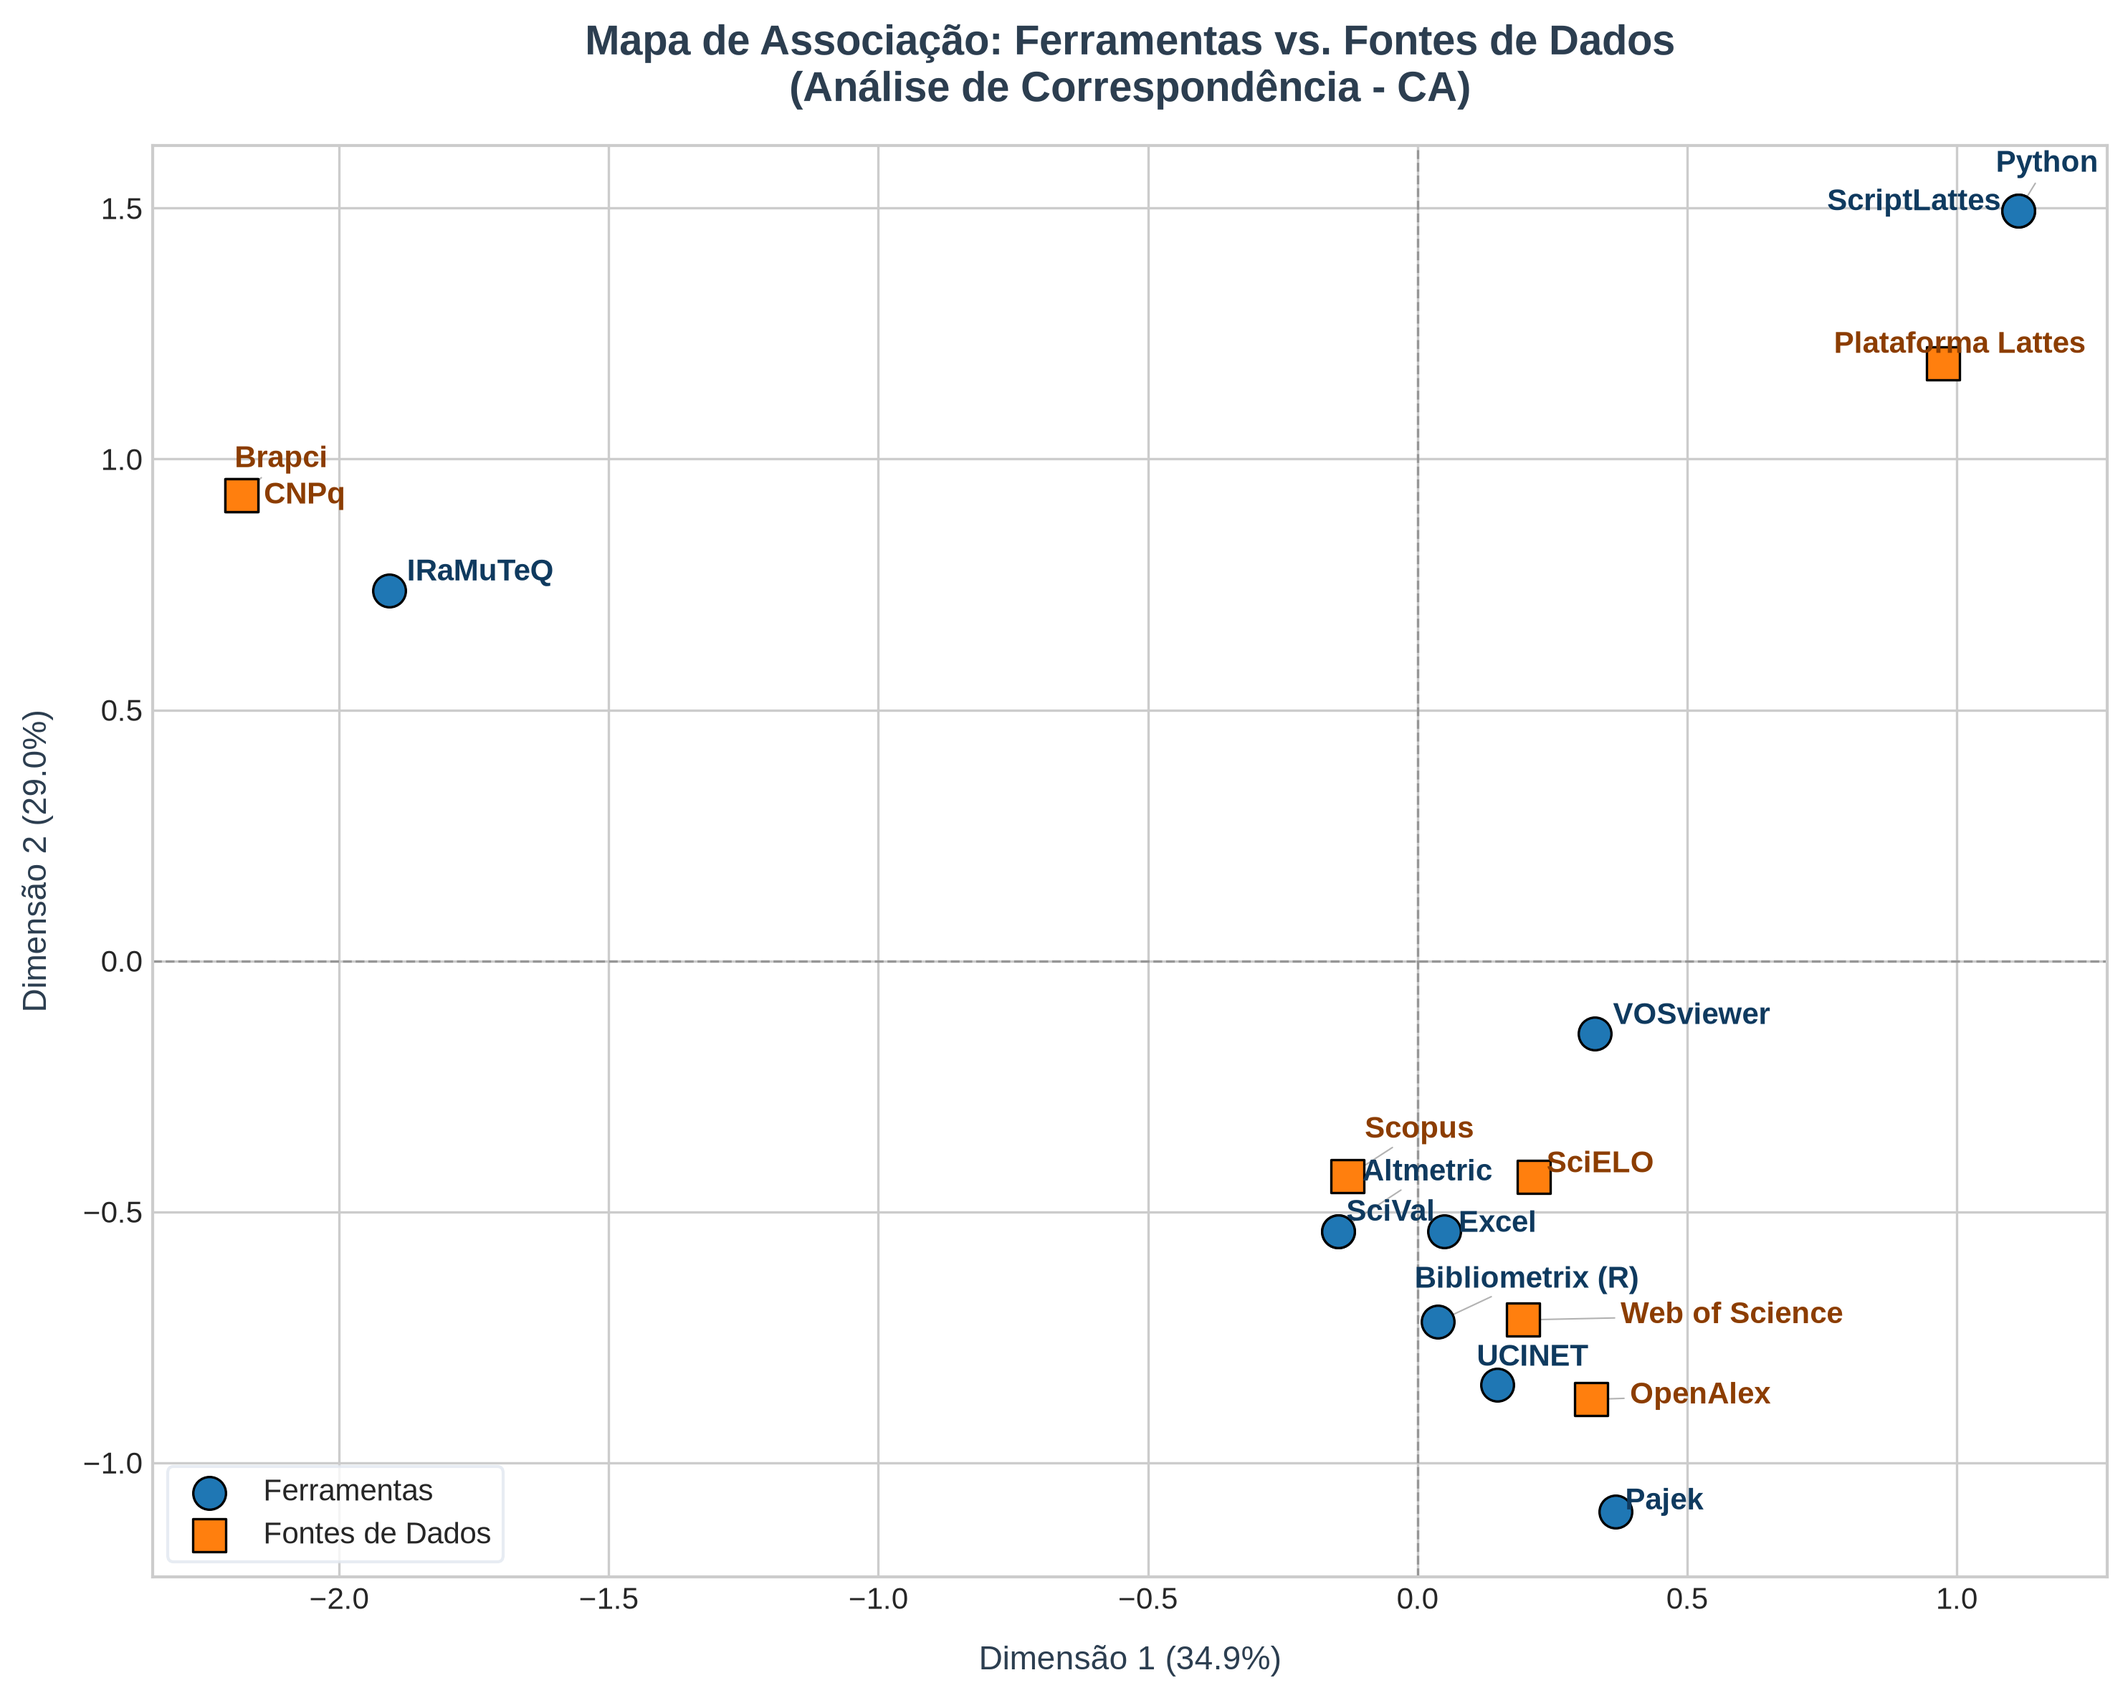
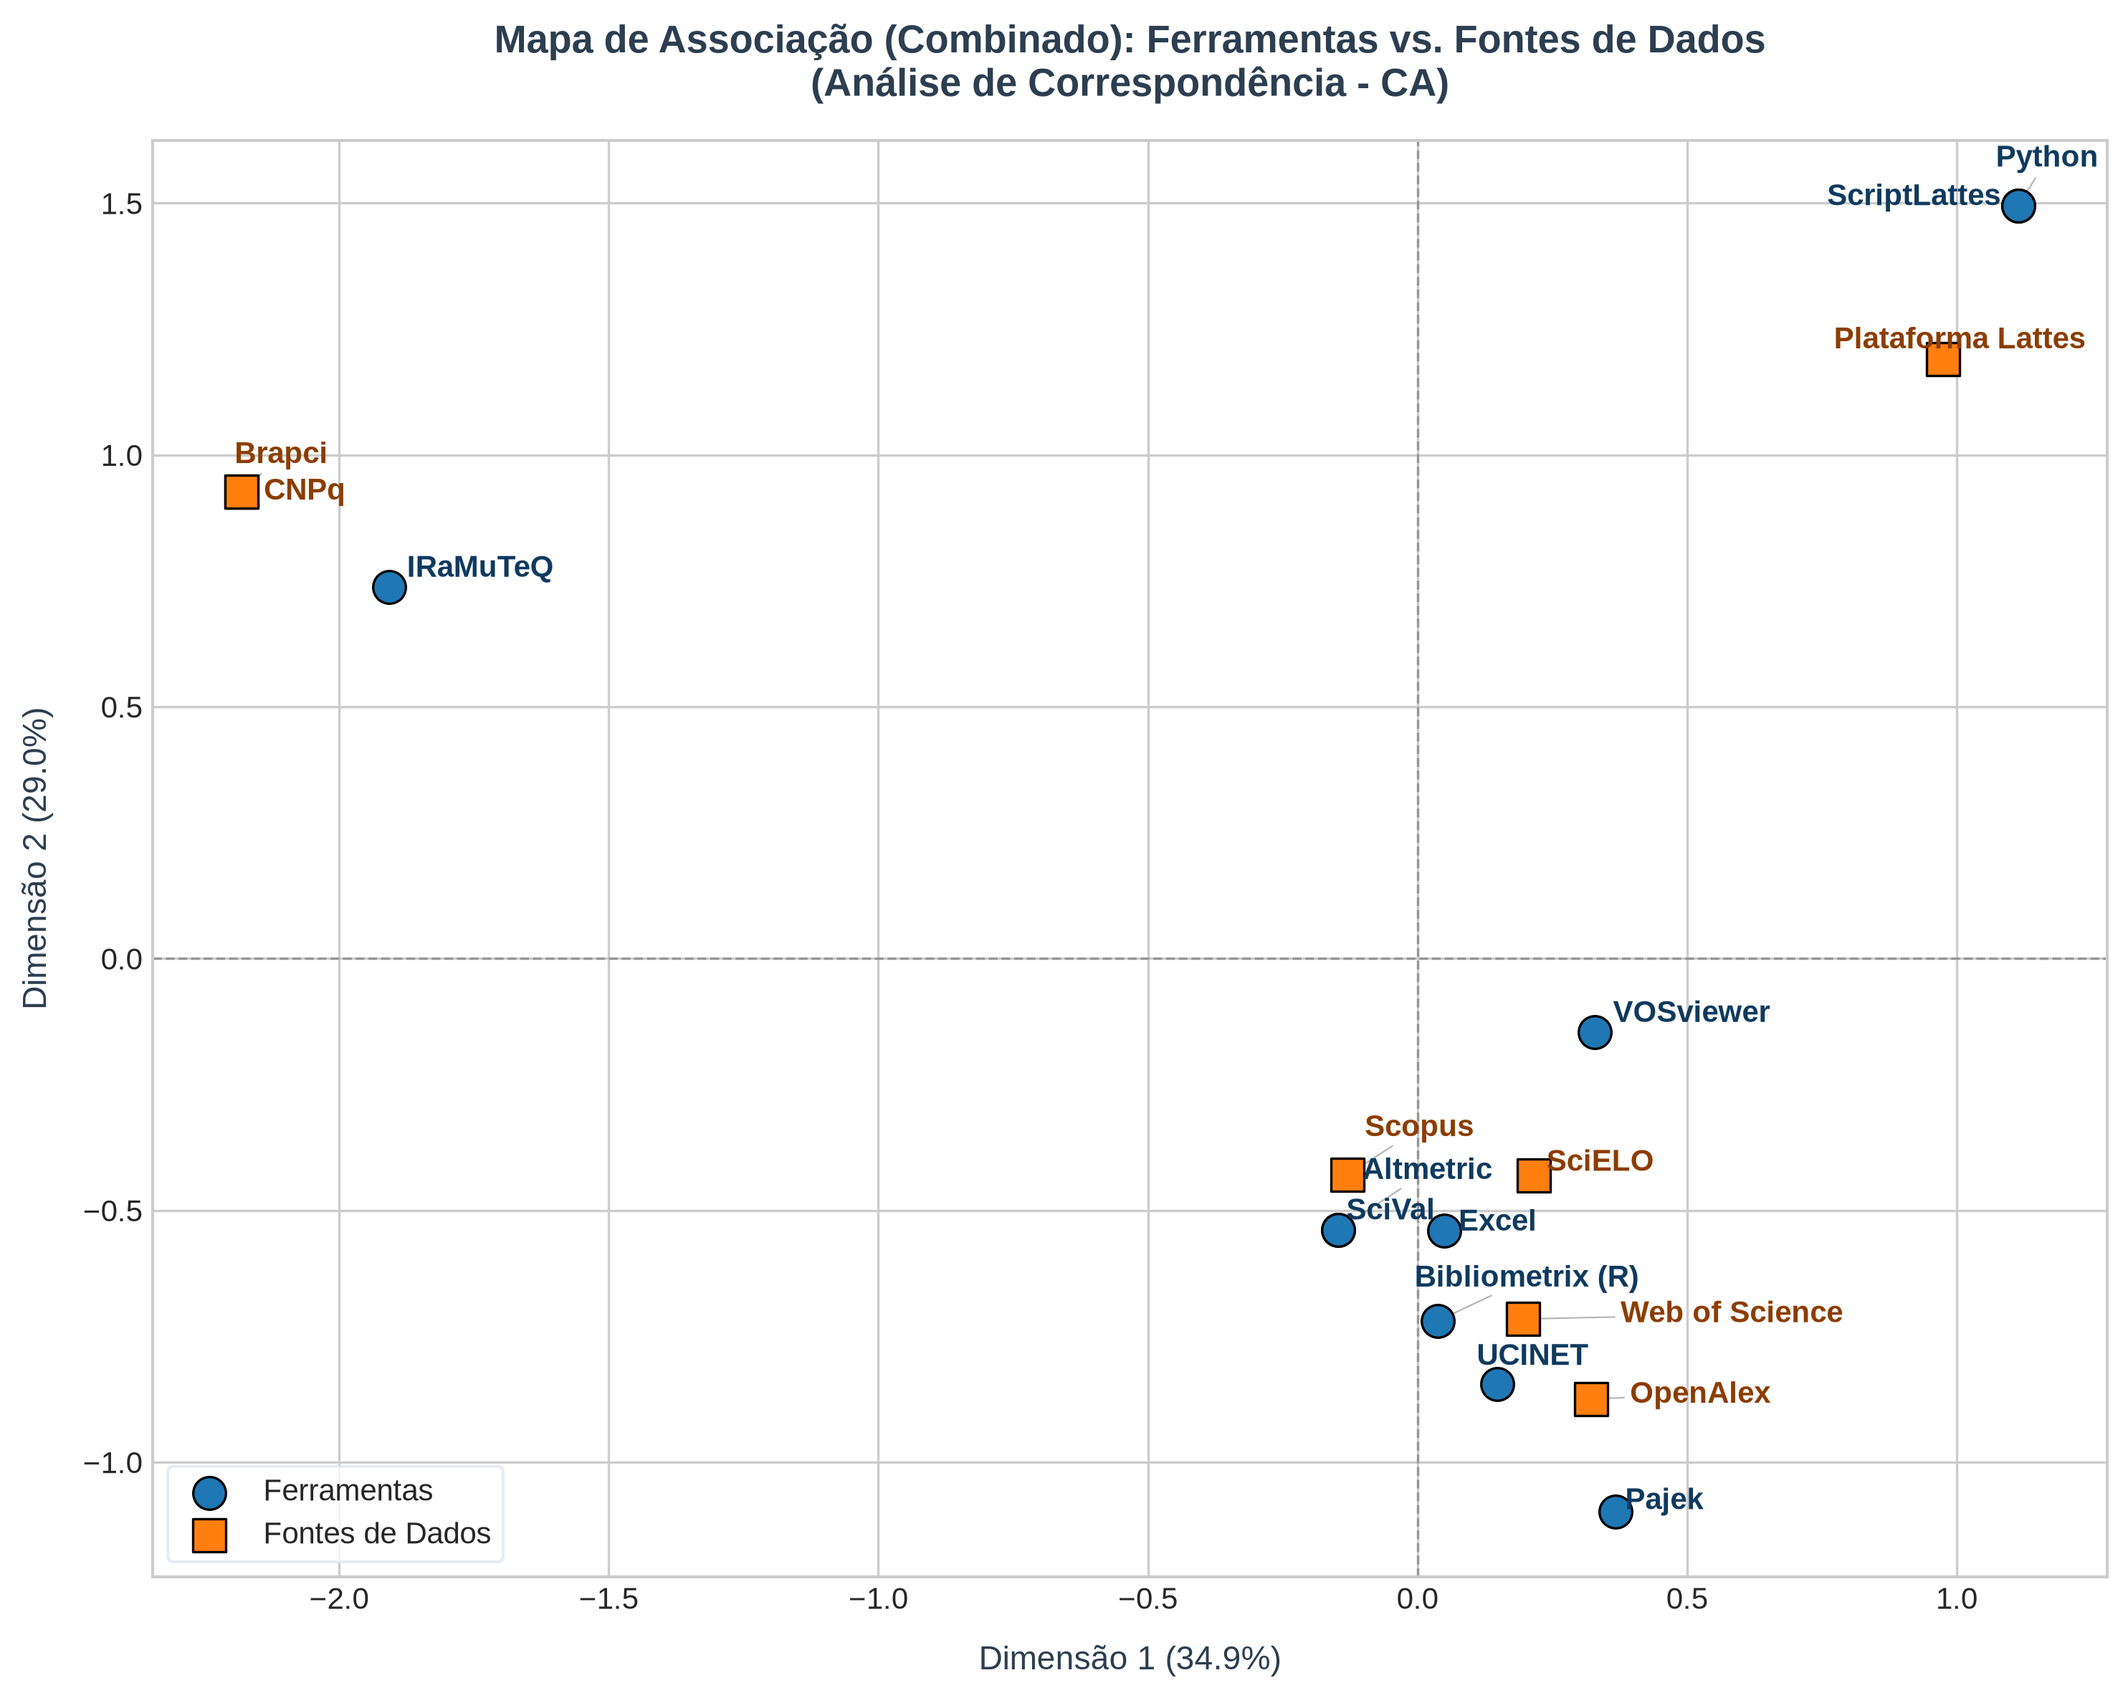
feat: split correspondence analysis into combined, EBBC, and QSS plots

diff --git a/scripts/correspondence_analysis.py b/scripts/correspondence_analysis.py
@@ -10,8 +10,9 @@ from adjustText import adjust_text
 # Definir caminhos
 ROOT_DIR = os.path.dirname(os.path.dirname(os.path.abspath(__file__)))
 DATASETS_PATH = os.path.join(ROOT_DIR, "datasets", "*_data.json")
-OUTPUT_IMAGE = os.path.join(ROOT_DIR, "ca_biplot.png")
-ARTIFACTS_IMAGE = "/home/gabrielgama/.gemini/antigravity/brain/32df1f7d-817b-4130-b656-b7cd7fcabf46/ca_biplot.png"
+
+# Diretório dos artefatos
+ART_DIR = "/home/gabrielgama/.gemini/antigravity/brain/32df1f7d-817b-4130-b656-b7cd7fcabf46"
 
 def map_tool(clean_text):
     text = clean_text.lower()
@@ -99,31 +100,15 @@ def clean_and_split(text):
             parts.append(clean)
     return parts
 
-def main():
-    print("[Análise] Carregando datasets...")
-    all_papers = []
-    
-    for filepath in glob.glob(DATASETS_PATH):
-        with open(filepath, "r", encoding="utf-8") as f:
-            try:
-                data = json.load(f)
-                all_papers.extend(data)
-            except Exception as e:
-                print(f"[Aviso] Falha ao ler {os.path.basename(filepath)}: {e}")
-                
-    print(f"[Análise] Total de artigos carregados: {len(all_papers)}")
-    
-    # Coletar pares co-ocorrentes
+def extract_pairs(papers):
     co_occurrences = []
-    
-    for paper in all_papers:
+    for paper in papers:
         tools_raw = paper.get("Ferramenta utilizada", "N/A")
         sources_raw = paper.get("Fonte de coleta de dados (da onde o pesquisador tirou a informação?)", "N/A")
         
         tools_list = clean_and_split(tools_raw)
         sources_list = clean_and_split(sources_raw)
         
-        # Mapear e filtrar termos conhecidos de forma flexível/robusta
         mapped_tools = []
         for t in tools_list:
             mapped_t = map_tool(t)
@@ -136,39 +121,37 @@ def main():
             if mapped_s:
                 mapped_sources.append(mapped_s)
                 
-        # Garantir unicidade dentro do mesmo artigo
         mapped_tools = list(set(mapped_tools))
         mapped_sources = list(set(mapped_sources))
         
-        # Gerar pares
         for t in mapped_tools:
             for s in mapped_sources:
                 co_occurrences.append((t, s))
-                
-    print(f"[Análise] Total de pares (Ferramenta, Fonte) extraídos: {len(co_occurrences)}")
-    
-    if not co_occurrences:
-        print("[Erro] Nenhum par de (Ferramenta, Fonte) encontrado para a análise!")
+    return co_occurrences
+
+def run_ca_and_plot(df_pairs, tools_to_keep, sources_to_keep, output_path, artifacts_path, title):
+    if df_pairs.empty:
+        print(f"[Erro] Sem dados para gerar CA para {title}!")
         return
-        
-    df_pairs = pd.DataFrame(co_occurrences, columns=["Ferramenta", "Fonte"])
-    
+
     # Montar tabela de contingência
     contingency_table = pd.crosstab(df_pairs["Ferramenta"], df_pairs["Fonte"])
     
-    # Filtrar para manter apenas o componente principal conectado e evitar distorções de outliers perfeitamente isolados
-    tools_to_keep = ['VOSviewer', 'Python', 'ScriptLattes', 'IRaMuTeQ', 'UCINET', 'SciVal', 'Excel', 'Bibliometrix (R)', 'Pajek', 'Altmetric']
-    sources_to_keep = ['Scopus', 'Web of Science', 'Plataforma Lattes', 'CNPq', 'Brapci', 'SciELO', 'OpenAlex']
+    # Filtrar
+    valid_tools = [t for t in tools_to_keep if t in contingency_table.index]
+    valid_sources = [s for s in sources_to_keep if s in contingency_table.columns]
     
-    tools_to_keep = [t for t in tools_to_keep if t in contingency_table.index]
-    sources_to_keep = [s for s in sources_to_keep if s in contingency_table.columns]
+    contingency_table = contingency_table.loc[valid_tools, valid_sources]
     
-    contingency_table = contingency_table.loc[tools_to_keep, sources_to_keep]
-    
-    print(f"[Análise] Tabela de contingência filtrada (tamanho {contingency_table.shape}):")
+    # Se a tabela for muito pequena ou vazia, avisar e pular
+    if contingency_table.empty or contingency_table.shape[0] < 2 or contingency_table.shape[1] < 2:
+        print(f"[Aviso] Tabela de contingência para {title} é muito pequena ({contingency_table.shape}) para análise de correspondência!")
+        return
+        
+    print(f"\n[Análise] Tabela de contingência para {title} (tamanho {contingency_table.shape}):")
     print(contingency_table)
     
-    # --- Algoritmo de Análise de Correspondência (CA) ---
+    # Algoritmo CA
     N = contingency_table.values
     grand_total = N.sum()
     P = N / grand_total
@@ -176,81 +159,139 @@ def main():
     r = P.sum(axis=1)
     c = P.sum(axis=0)
     
-    # Impedir divisões por zero em colunas/linhas vazias
     r[r == 0] = 1e-10
     c[c == 0] = 1e-10
     
     Dr_inv_sqrt = np.diag(1.0 / np.sqrt(r))
     Dc_inv_sqrt = np.diag(1.0 / np.sqrt(c))
     
-    # Matriz de resíduos padronizados
     S = Dr_inv_sqrt @ (P - np.outer(r, c)) @ Dc_inv_sqrt
-    
-    # Decomposição em Valores Singulares (SVD)
     U, S_vals, Vt = np.linalg.svd(S, full_matrices=False)
     
-    # Cálculo das inércias (autovalores) e variância explicada
     inertias = S_vals ** 2
     total_inertia = inertias.sum()
     var_explained = (inertias / total_inertia) * 100
     
-    print(f"\n[Análise] Inércia Total: {total_inertia:.4f}")
-    for idx, var in enumerate(var_explained):
-        if idx < len(var_explained):
-            print(f"  Dimensão {idx+1}: {var:.2f}% de inércia explicada")
+    print(f"  Inércia Total: {total_inertia:.4f}")
+    if len(var_explained) > 0:
+        print(f"  Dimensão 1: {var_explained[0]:.2f}% de inércia explicada")
+    if len(var_explained) > 1:
+        print(f"  Dimensão 2: {var_explained[1]:.2f}% de inércia explicada")
         
-    # Coordenadas principais das linhas (Ferramentas) e colunas (Fontes)
     row_coords = Dr_inv_sqrt @ U @ np.diag(S_vals)
     col_coords = Dc_inv_sqrt @ Vt.T @ np.diag(S_vals)
     
-    # Obter os nomes das categorias
     row_labels = contingency_table.index.tolist()
     col_labels = contingency_table.columns.tolist()
     
-    # --- Plotagem Gráfica (Biplot Simétrico) ---
     plt.style.use('seaborn-v0_8-whitegrid')
     fig, ax = plt.subplots(figsize=(10, 8), dpi=300)
     
-    # Eixos de referência (linhas tracejadas em x=0 e y=0)
     ax.axhline(0, color='gray', linestyle='--', linewidth=0.8, alpha=0.7)
     ax.axvline(0, color='gray', linestyle='--', linewidth=0.8, alpha=0.7)
     
-    # Plotar Ferramentas (Linhas) - Azul Royal
+    # Plotar
     ax.scatter(row_coords[:, 0], row_coords[:, 1], color='#1f77b4', marker='o', s=120, label='Ferramentas', edgecolors='black', linewidth=0.8, zorder=3)
-    # Plotar Fontes de Dados (Colunas) - Laranja Coral
     ax.scatter(col_coords[:, 0], col_coords[:, 1], color='#ff7f0e', marker='s', s=120, label='Fontes de Dados', edgecolors='black', linewidth=0.8, zorder=3)
     
-    # Adicionar rótulos de texto
     texts = []
     for i, label in enumerate(row_labels):
         texts.append(ax.text(row_coords[i, 0], row_coords[i, 1], label, fontsize=10, weight='bold', color='#0f3a5f'))
-        
     for j, label in enumerate(col_labels):
         texts.append(ax.text(col_coords[j, 0], col_coords[j, 1], label, fontsize=10, weight='bold', color='#8c3d00'))
         
-    # Ajustar as posições para evitar sobreposição de texto
-    print("[Análise] Ajustando posições dos rótulos de texto...")
     adjust_text(texts, arrowprops=dict(arrowstyle="-", color='gray', lw=0.5, alpha=0.6))
     
-    # Estilização Premium do Gráfico
-    ax.set_title("Mapa de Associação: Ferramentas vs. Fontes de Dados\n(Análise de Correspondência - CA)", fontsize=14, weight='bold', pad=15, color='#2c3e50')
-    ax.set_xlabel(f"Dimensão 1 ({var_explained[0]:.1f}%)", fontsize=11, labelpad=10, color='#2c3e50')
-    ax.set_ylabel(f"Dimensão 2 ({var_explained[1]:.1f}%)", fontsize=11, labelpad=10, color='#2c3e50')
+    ax.set_title(f"Mapa de Associação ({title}): Ferramentas vs. Fontes de Dados\n(Análise de Correspondência - CA)", fontsize=13, weight='bold', pad=15, color='#2c3e50')
     
-    # Configurar legenda bonita no canto inferior esquerdo (onde não há dados para evitar sobreposição)
+    dim1_lbl = f"Dimensão 1 ({var_explained[0]:.1f}%)" if len(var_explained) > 0 else "Dimensão 1"
+    dim2_lbl = f"Dimensão 2 ({var_explained[1]:.1f}%)" if len(var_explained) > 1 else "Dimensão 2"
+    ax.set_xlabel(dim1_lbl, fontsize=11, labelpad=10, color='#2c3e50')
+    ax.set_ylabel(dim2_lbl, fontsize=11, labelpad=10, color='#2c3e50')
+    
+    # Configurar legenda no canto inferior esquerdo para evitar sobreposição
     ax.legend(frameon=True, facecolor='white', edgecolor='#e2e8f0', fontsize=10, loc='lower left')
     
-    # Margens e layout
     plt.tight_layout()
-    
-    # Salvar nos destinos
-    plt.savefig(OUTPUT_IMAGE, bbox_inches='tight')
-    plt.savefig(ARTIFACTS_IMAGE, bbox_inches='tight')
+    plt.savefig(output_path, bbox_inches='tight')
+    plt.savefig(artifacts_path, bbox_inches='tight')
     plt.close()
     
-    print(f"[Análise] Mapa gerado com sucesso!")
-    print(f"  -> Salvo localmente em: {OUTPUT_IMAGE}")
-    print(f"  -> Salvo nos artefatos em: {ARTIFACTS_IMAGE}")
+    print(f"  -> Mapa gerado com sucesso!")
+    print(f"     Salvo em: {output_path}")
+    print(f"     Salvo nos artefatos em: {artifacts_path}")
+
+def main():
+    print("[Análise] Carregando datasets...")
+    qss_papers = []
+    ebbc_papers = []
+    
+    for filepath in glob.glob(DATASETS_PATH):
+        filename = os.path.basename(filepath)
+        with open(filepath, "r", encoding="utf-8") as f:
+            try:
+                data = json.load(f)
+                if "qss" in filename.lower():
+                    qss_papers.extend(data)
+                elif "ebbc" in filename.lower():
+                    ebbc_papers.extend(data)
+            except Exception as e:
+                print(f"[Aviso] Falha ao ler {filename}: {e}")
+                
+    print(f"[Análise] Total de artigos carregados:")
+    print(f"  QSS: {len(qss_papers)}")
+    print(f"  EBBC: {len(ebbc_papers)}")
+    print(f"  Total: {len(qss_papers) + len(ebbc_papers)}")
+    
+    # Extrair pares
+    qss_pairs = extract_pairs(qss_papers)
+    ebbc_pairs = extract_pairs(ebbc_papers)
+    combined_pairs = qss_pairs + ebbc_pairs
+    
+    df_qss = pd.DataFrame(qss_pairs, columns=["Ferramenta", "Fonte"])
+    df_ebbc = pd.DataFrame(ebbc_pairs, columns=["Ferramenta", "Fonte"])
+    df_combined = pd.DataFrame(combined_pairs, columns=["Ferramenta", "Fonte"])
+    
+    # Listas de categorias a incluir em cada tipo de gráfico
+    # 1. COMBINADO
+    tools_combined = ['VOSviewer', 'Python', 'ScriptLattes', 'IRaMuTeQ', 'UCINET', 'SciVal', 'Excel', 'Bibliometrix (R)', 'Pajek', 'Altmetric']
+    sources_combined = ['Scopus', 'Web of Science', 'Plataforma Lattes', 'CNPq', 'Brapci', 'SciELO', 'OpenAlex']
+    
+    # 2. EBBC (focando no componente conectado principal para evitar distorção por outliers como Gephi/Twitter)
+    tools_ebbc = ['VOSviewer', 'Python', 'ScriptLattes', 'IRaMuTeQ', 'UCINET', 'SciVal', 'Excel', 'Bibliometrix (R)', 'Pajek', 'Altmetric']
+    sources_ebbc = ['Scopus', 'Web of Science', 'Plataforma Lattes', 'CNPq', 'Brapci', 'SciELO', 'OpenAlex']
+    
+    # 3. QSS (como tem poucos pares, mantemos todos os disponíveis que co-ocorrem pelo menos 1 vez)
+    tools_qss = ['Altmetric', 'Crossref', 'Dimensions', 'Excel', 'OpenAlex']
+    sources_qss = ['Crossref', 'Dimensions', 'Scopus', 'Web of Science']
+    
+    # --- Executar Análises ---
+    
+    # A. Combined (Salva em ca_biplot_combined.png e também no ca_biplot.png para compatibilidade)
+    print("\n--- PROCESSANDO DATASET COMBINADO ---")
+    run_ca_and_plot(df_combined, tools_combined, sources_combined, 
+                    os.path.join(ROOT_DIR, "ca_biplot_combined.png"), 
+                    os.path.join(ART_DIR, "ca_biplot_combined.png"), 
+                    "Combinado QSS + EBBC")
+    # Copiar para ca_biplot.png original
+    run_ca_and_plot(df_combined, tools_combined, sources_combined, 
+                    os.path.join(ROOT_DIR, "ca_biplot.png"), 
+                    os.path.join(ART_DIR, "ca_biplot.png"), 
+                    "Combinado")
+
+    # B. EBBC Only
+    print("\n--- PROCESSANDO DATASET EBBC (NACIONAL) ---")
+    run_ca_and_plot(df_ebbc, tools_ebbc, sources_ebbc, 
+                    os.path.join(ROOT_DIR, "ca_biplot_ebbc.png"), 
+                    os.path.join(ART_DIR, "ca_biplot_ebbc.png"), 
+                    "EBBC Nacional")
+
+    # C. QSS Only
+    print("\n--- PROCESSANDO DATASET QSS (INTERNACIONAL) ---")
+    run_ca_and_plot(df_qss, tools_qss, sources_qss, 
+                    os.path.join(ROOT_DIR, "ca_biplot_qss.png"), 
+                    os.path.join(ART_DIR, "ca_biplot_qss.png"), 
+                    "QSS Internacional")
 
 if __name__ == "__main__":
     main()
